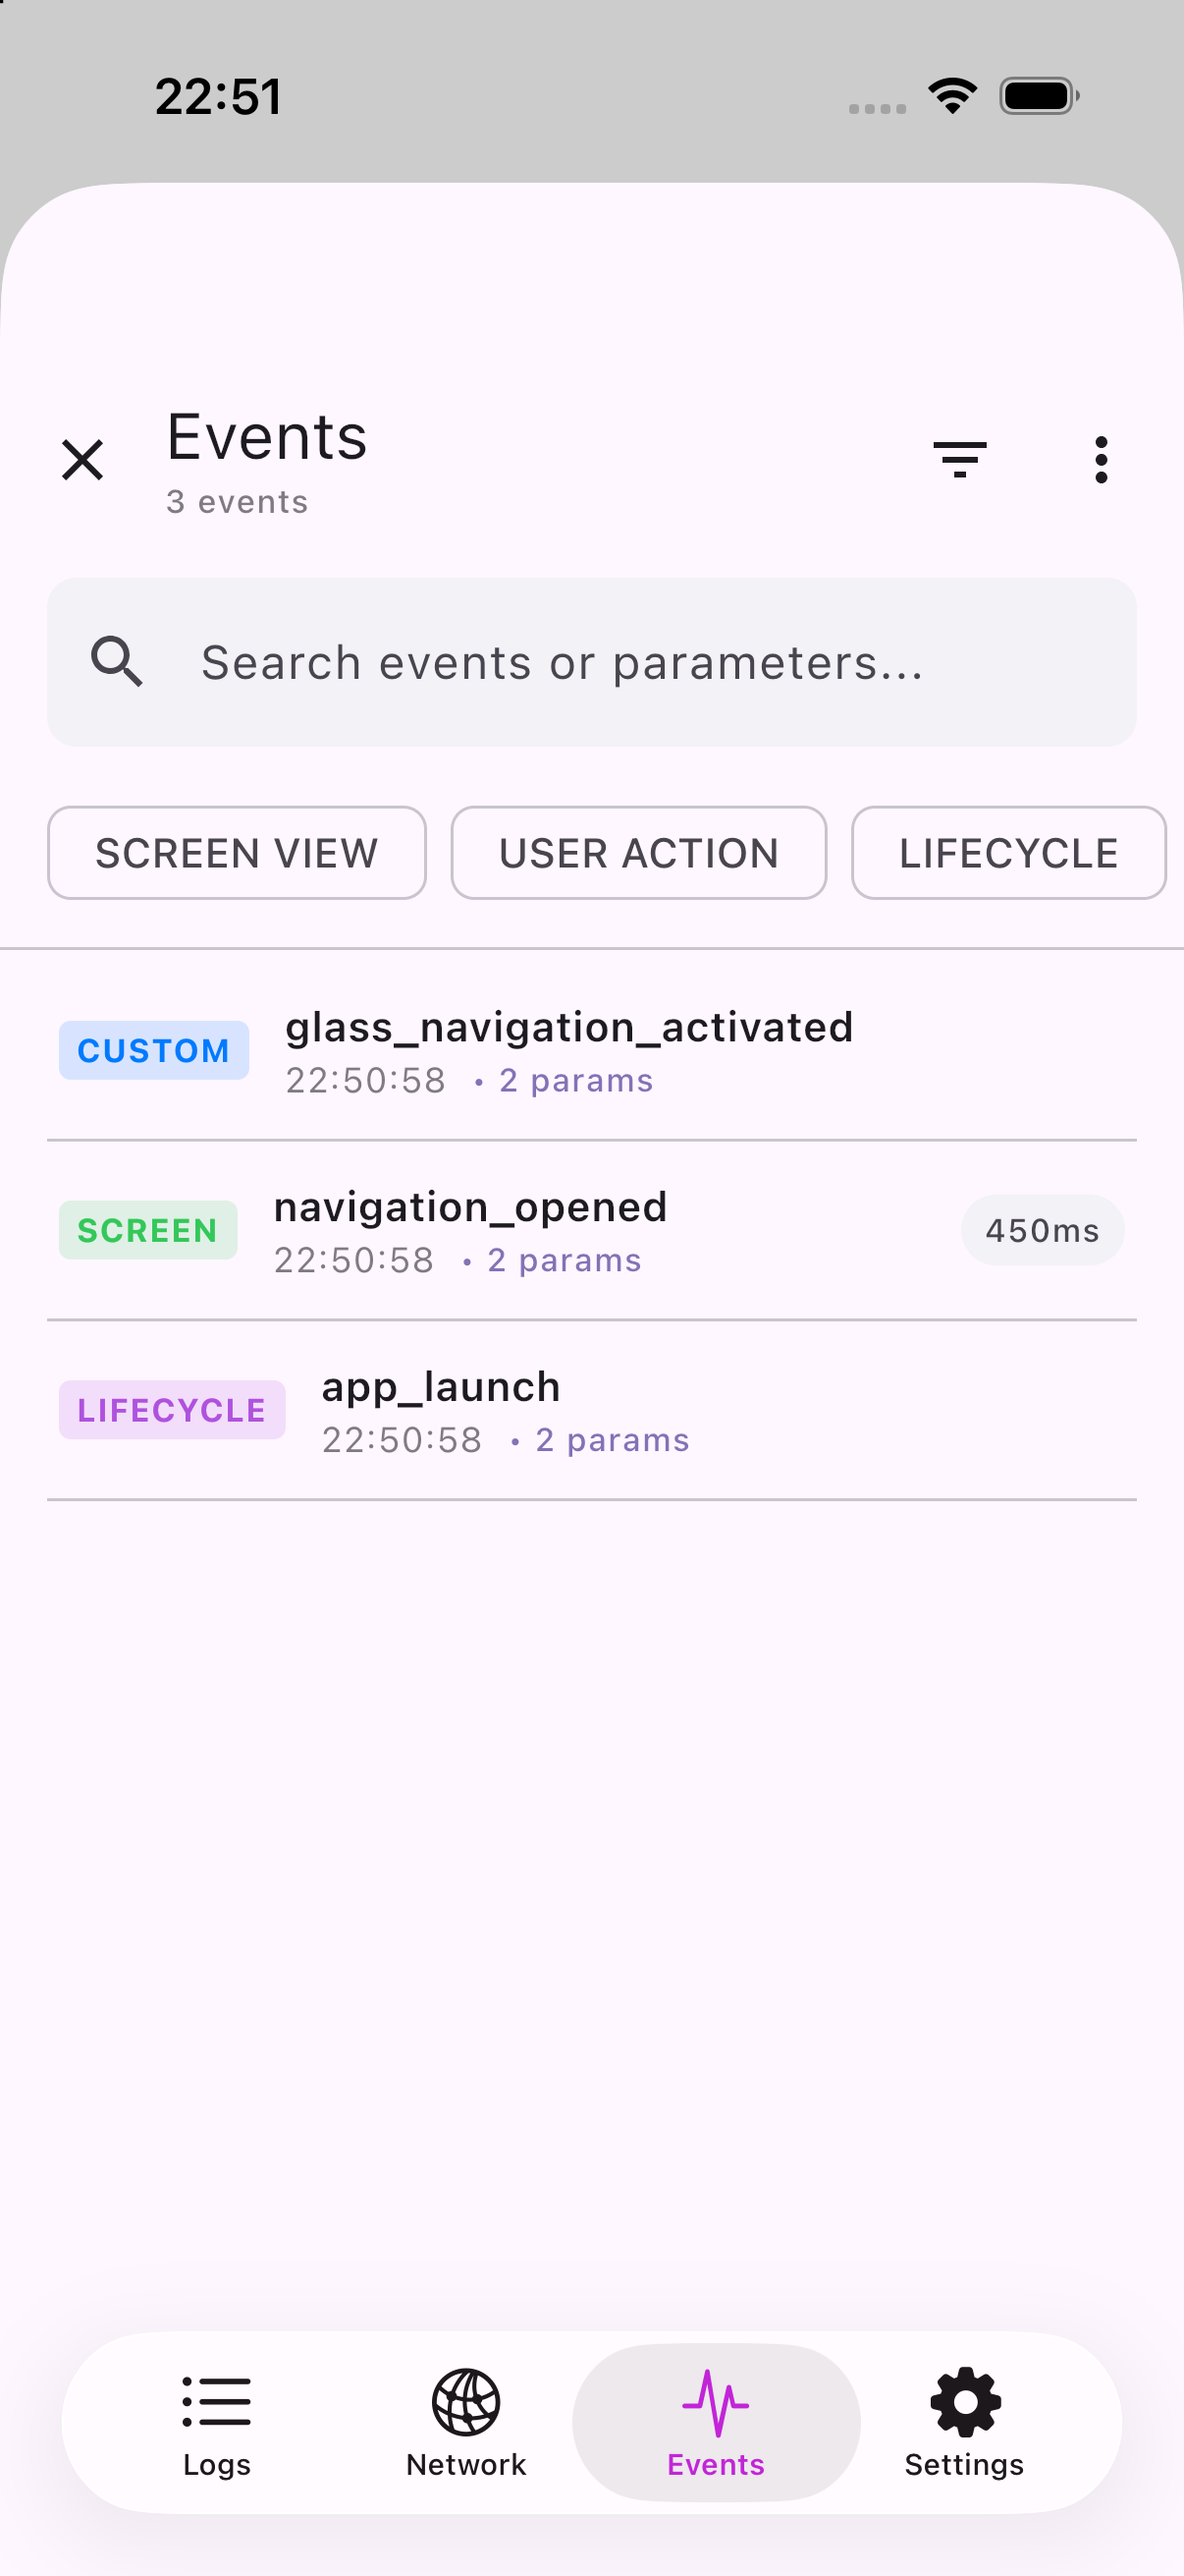
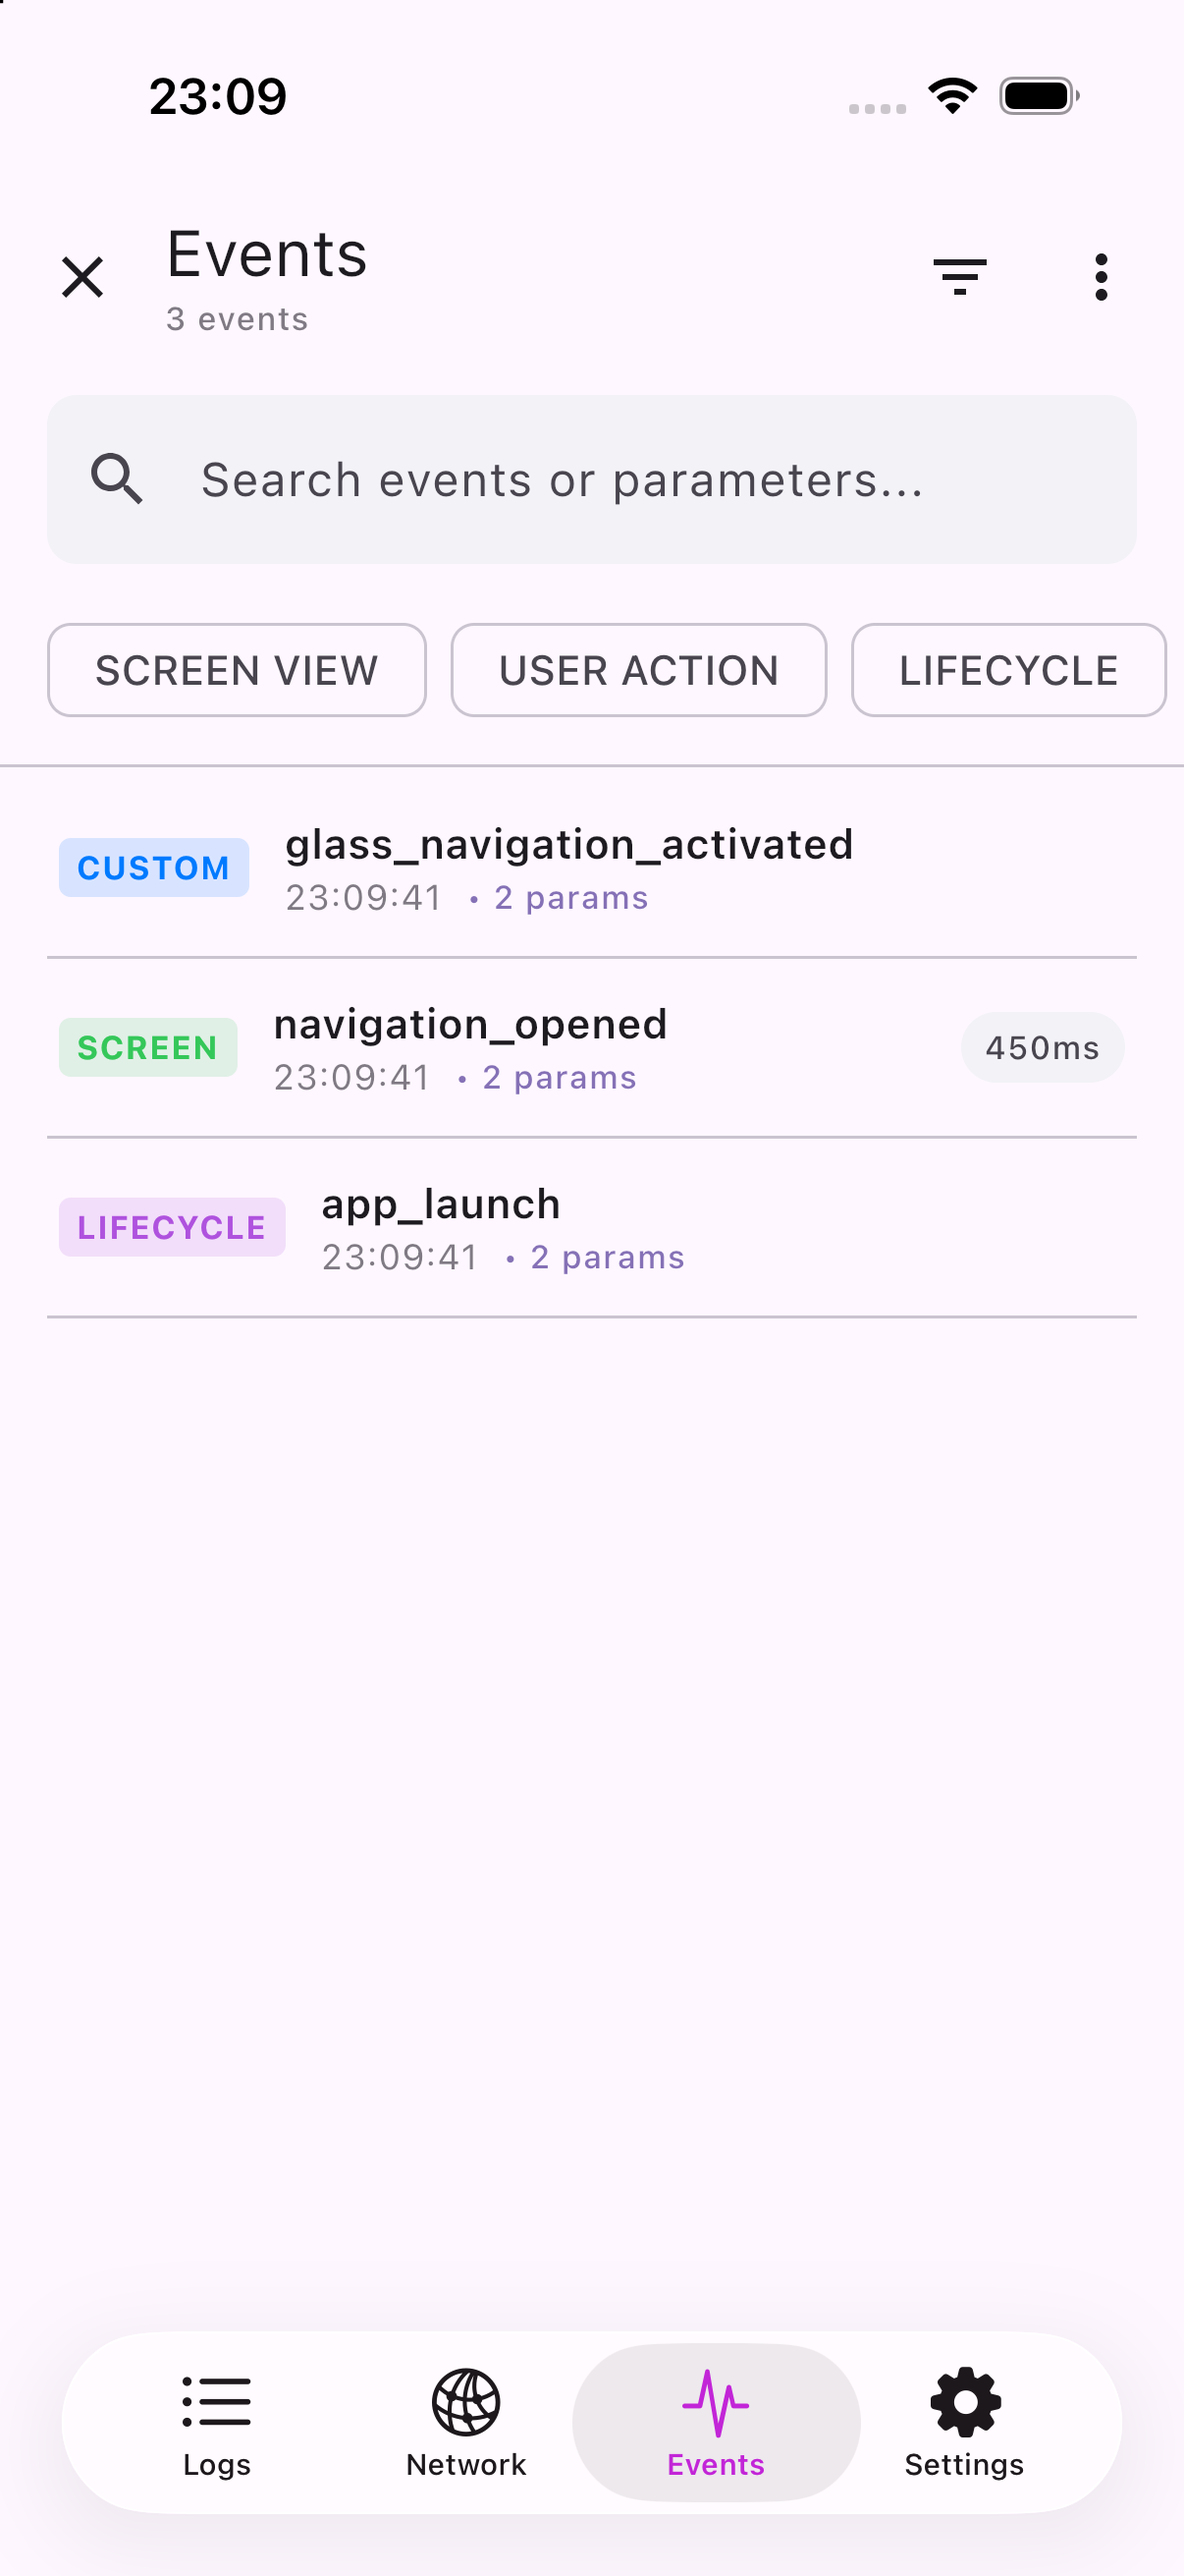
fix(ios): present Spectra debug inspector as fullscreen cover and update retina screenshots

diff --git a/examples/ios-native/SpectraExample/MainAppView.swift b/examples/ios-native/SpectraExample/MainAppView.swift
@@ -52,7 +52,7 @@ public struct MainAppView: View {
                 logger.screenStart(screenName: initialScreen, parameters: ["tab_index": "\(selectedTab)"])
                 currentTrackedScreen = initialScreen
             }
-            .sheet(isPresented: $showSpectraLogger) {
+            .fullScreenCover(isPresented: $showSpectraLogger) {
                 SpectraLoggerView(initialTab: initialSpectraTab, onDismiss: {
                     showSpectraLogger = false
                 })

diff --git a/examples/ios-native/SpectraExample/Views/Tabs/EventsView.swift b/examples/ios-native/SpectraExample/Views/Tabs/EventsView.swift
@@ -159,8 +159,10 @@ public struct EventsView: View {
                 .padding(.horizontal)
             }
         }
-        .sheet(isPresented: $showLocalSpectraLogger) {
-            SpectraLoggerView()
+        .fullScreenCover(isPresented: $showLocalSpectraLogger) {
+            SpectraLoggerView(onDismiss: {
+                showLocalSpectraLogger = false
+            })
         }
     }
 }

diff --git a/examples/ios-native/SpectraExample/Views/Tabs/ExampleActionsView.swift b/examples/ios-native/SpectraExample/Views/Tabs/ExampleActionsView.swift
@@ -108,8 +108,10 @@ public struct ExampleActionsView: View {
                 .padding(.horizontal)
             }
         }
-        .sheet(isPresented: $showSpectraLogger) {
-            SpectraLoggerView()
+        .fullScreenCover(isPresented: $showSpectraLogger) {
+            SpectraLoggerView(onDismiss: {
+                showSpectraLogger = false
+            })
         }
     }
 }

diff --git a/examples/ios-native/SpectraExample/Views/Tabs/NetworkRequestsView.swift b/examples/ios-native/SpectraExample/Views/Tabs/NetworkRequestsView.swift
@@ -97,8 +97,10 @@ public struct NetworkRequestsView: View {
                 .padding(.horizontal)
             }
         }
-        .sheet(isPresented: $showSpectraLogger) {
-            SpectraLoggerView()
+        .fullScreenCover(isPresented: $showSpectraLogger) {
+            SpectraLoggerView(onDismiss: {
+                showSpectraLogger = false
+            })
         }
     }
 }

diff --git a/examples/ios-native/USAGE.md b/examples/ios-native/USAGE.md
@@ -24,9 +24,11 @@ struct MyApp: View {
         Button("Open Spectra Logger") {
             showLogger = true
         }
-        .sheet(isPresented: $showLogger) {
-            // That's it! One line to get the complete logger UI
-            SpectraLoggerScreen()
+        .fullScreenCover(isPresented: $showLogger) {
+            // Opens Spectra as a true fullscreen debug inspector
+            SpectraLoggerView(onDismiss: {
+                showLogger = false
+            })
         }
     }
 }

diff --git a/docs/guides/USAGE_GUIDE.md b/docs/guides/USAGE_GUIDE.md
@@ -108,9 +108,11 @@ struct SpectraLoggerView: UIViewControllerRepresentable {
     func updateUIViewController(_ uiViewController: UIViewController, context: Context) {}
 }
 
-// In your SwiftUI code
-.sheet(isPresented: $showLogs) {
-    SpectraLoggerView()
+// In your SwiftUI code (full-screen debug inspector presentation)
+.fullScreenCover(isPresented: $showLogs) {
+    SpectraLoggerView(onDismiss: {
+        showLogs = false
+    })
 }
 ```
 

diff --git a/docs/guides/SWIFT_PACKAGE_SETUP.md b/docs/guides/SWIFT_PACKAGE_SETUP.md
@@ -62,8 +62,10 @@ struct MainView: View {
         Button("Open Debug Logs") {
             showLogs = true
         }
-        .sheet(isPresented: $showLogs) {
-            SpectraLoggerView()
+        .fullScreenCover(isPresented: $showLogs) {
+            SpectraLoggerView(onDismiss: {
+                showLogs = false
+            })
         }
     }
 }

diff --git a/docs/guides/INTEGRATION.md b/docs/guides/INTEGRATION.md
@@ -76,8 +76,10 @@ struct MainAppView: View {
         Button("Open Logs") {
             showLogs = true
         }
-        .sheet(isPresented: $showLogs) {
-            SpectraLoggerView()
+        .fullScreenCover(isPresented: $showLogs) {
+            SpectraLoggerView(onDismiss: {
+                showLogs = false
+            })
         }
     }
 }

diff --git a/README.md b/README.md
@@ -589,7 +589,7 @@ struct ContentView: View {
         Button("Open Debug Inspector") {
             isSpectraOpen = true
         }
-        .sheet(isPresented: $isSpectraOpen) {
+        .fullScreenCover(isPresented: $isSpectraOpen) {
             SpectraLoggerView(onDismiss: {
                 isSpectraOpen = false
             })

diff --git a/CLAUDE.md b/CLAUDE.md
@@ -145,8 +145,10 @@ SpectraLogger.showScreen() // Or use SpectraLoggerFabOverlay
 ```swift
 import SpectraUI
 // ...
-.sheet(isPresented: $showLogs) {
-    SpectraLoggerView()
+.fullScreenCover(isPresented: $showLogs) {
+    SpectraLoggerView(onDismiss: {
+        showLogs = false
+    })
 }
 ```
 
